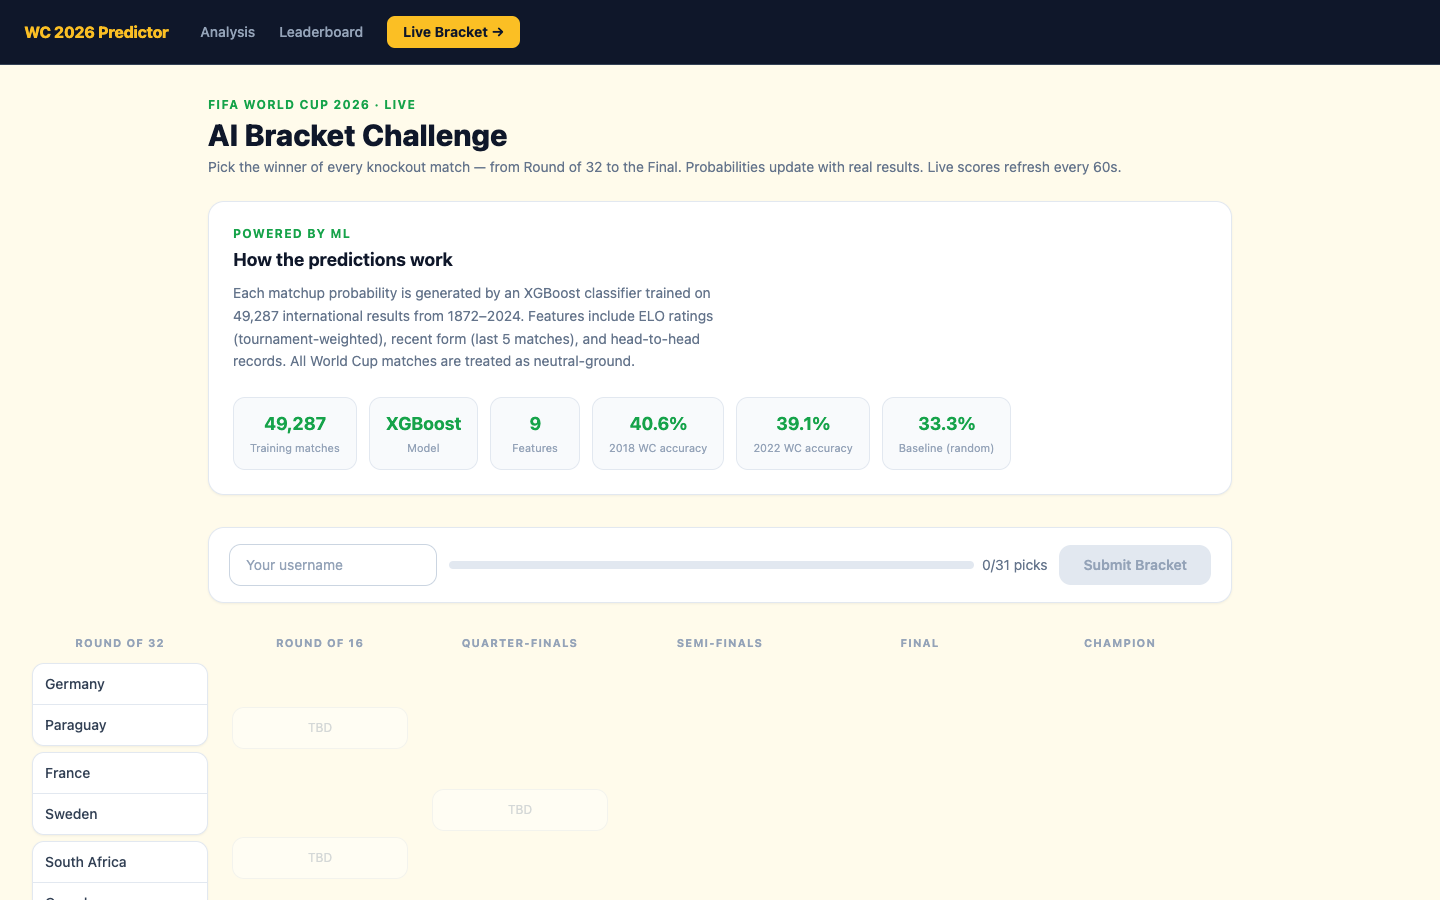
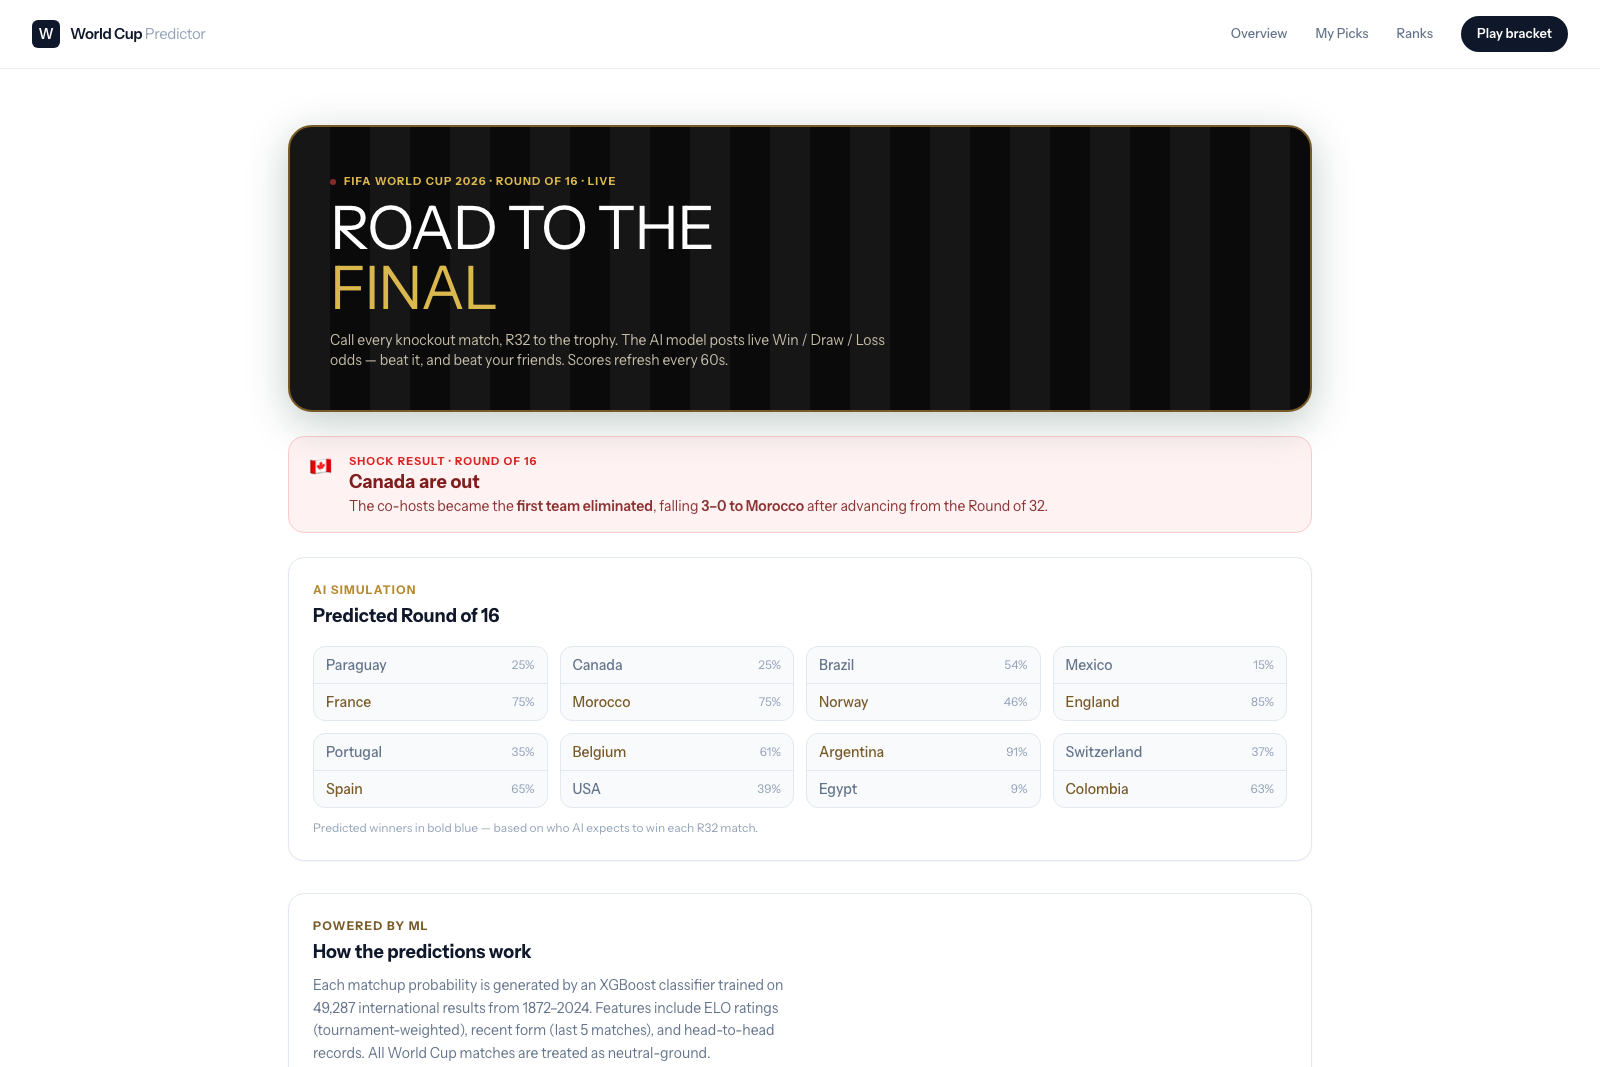
Update World Cup Predictor screenshot + copy (live FIFA-style bracket, self-updating sync)

diff --git a/src/data/content.ts b/src/data/content.ts
@@ -76,7 +76,7 @@ export const projects: Project[] = [
     title: "World Cup 2026 Predictor",
     subtitle: "Full-Stack ML App",
     description:
-      "Live match outcome predictor for the 2026 FIFA World Cup. XGBoost classifier trained on 49,000+ historical matches with ELO-based features predicts every knockout match. Includes a live bracket, user predictions, leaderboard, and auto-polling from football-data.org during the tournament.",
+      "Live match outcome predictor for the 2026 FIFA World Cup. An XGBoost classifier trained on 49,000+ historical matches with ELO-based features predicts every knockout tie. Features an interactive bracket, user predictions, and a live leaderboard — with a self-updating sync that pulls real results from football-data.org and advances the bracket automatically as each match finishes.",
     stack: [
       "XGBoost",
       "scikit-learn",
@@ -91,7 +91,7 @@ export const projects: Project[] = [
     demoUrl: "https://frontend-nine-alpha-56.vercel.app",
     image: {
       src: "/projects/world-cup-predictor.png",
-      alt: "Screenshot of the live AI Bracket Challenge: model stats and the knockout bracket picker",
+      alt: "Live World Cup 2026 knockout bracket with a black-and-gold 'Road to the Final' hero and the AI model's Round-of-16 win probabilities",
     },
   },
   {